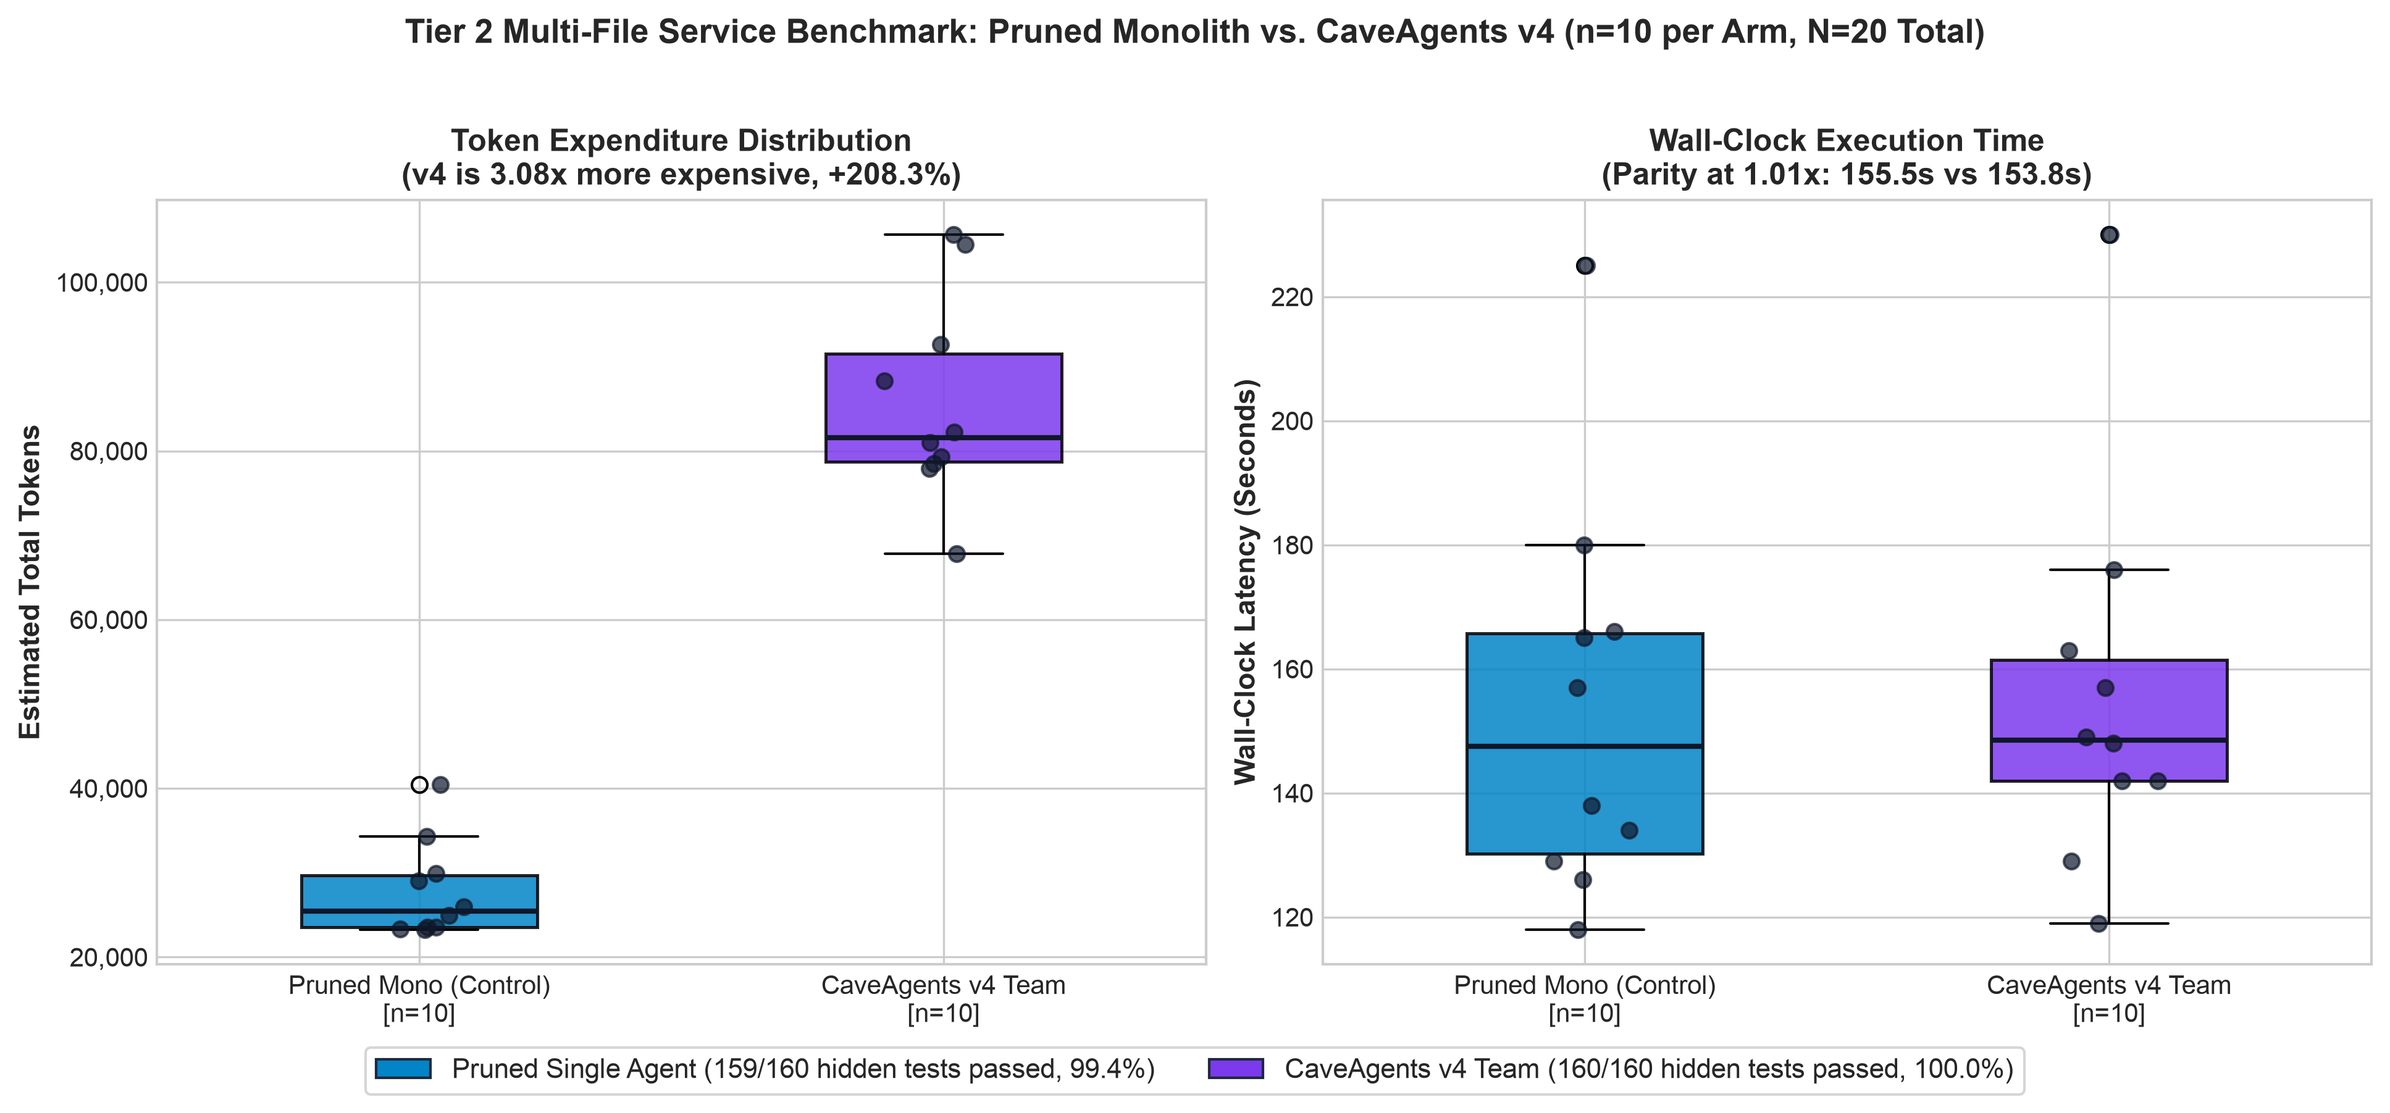
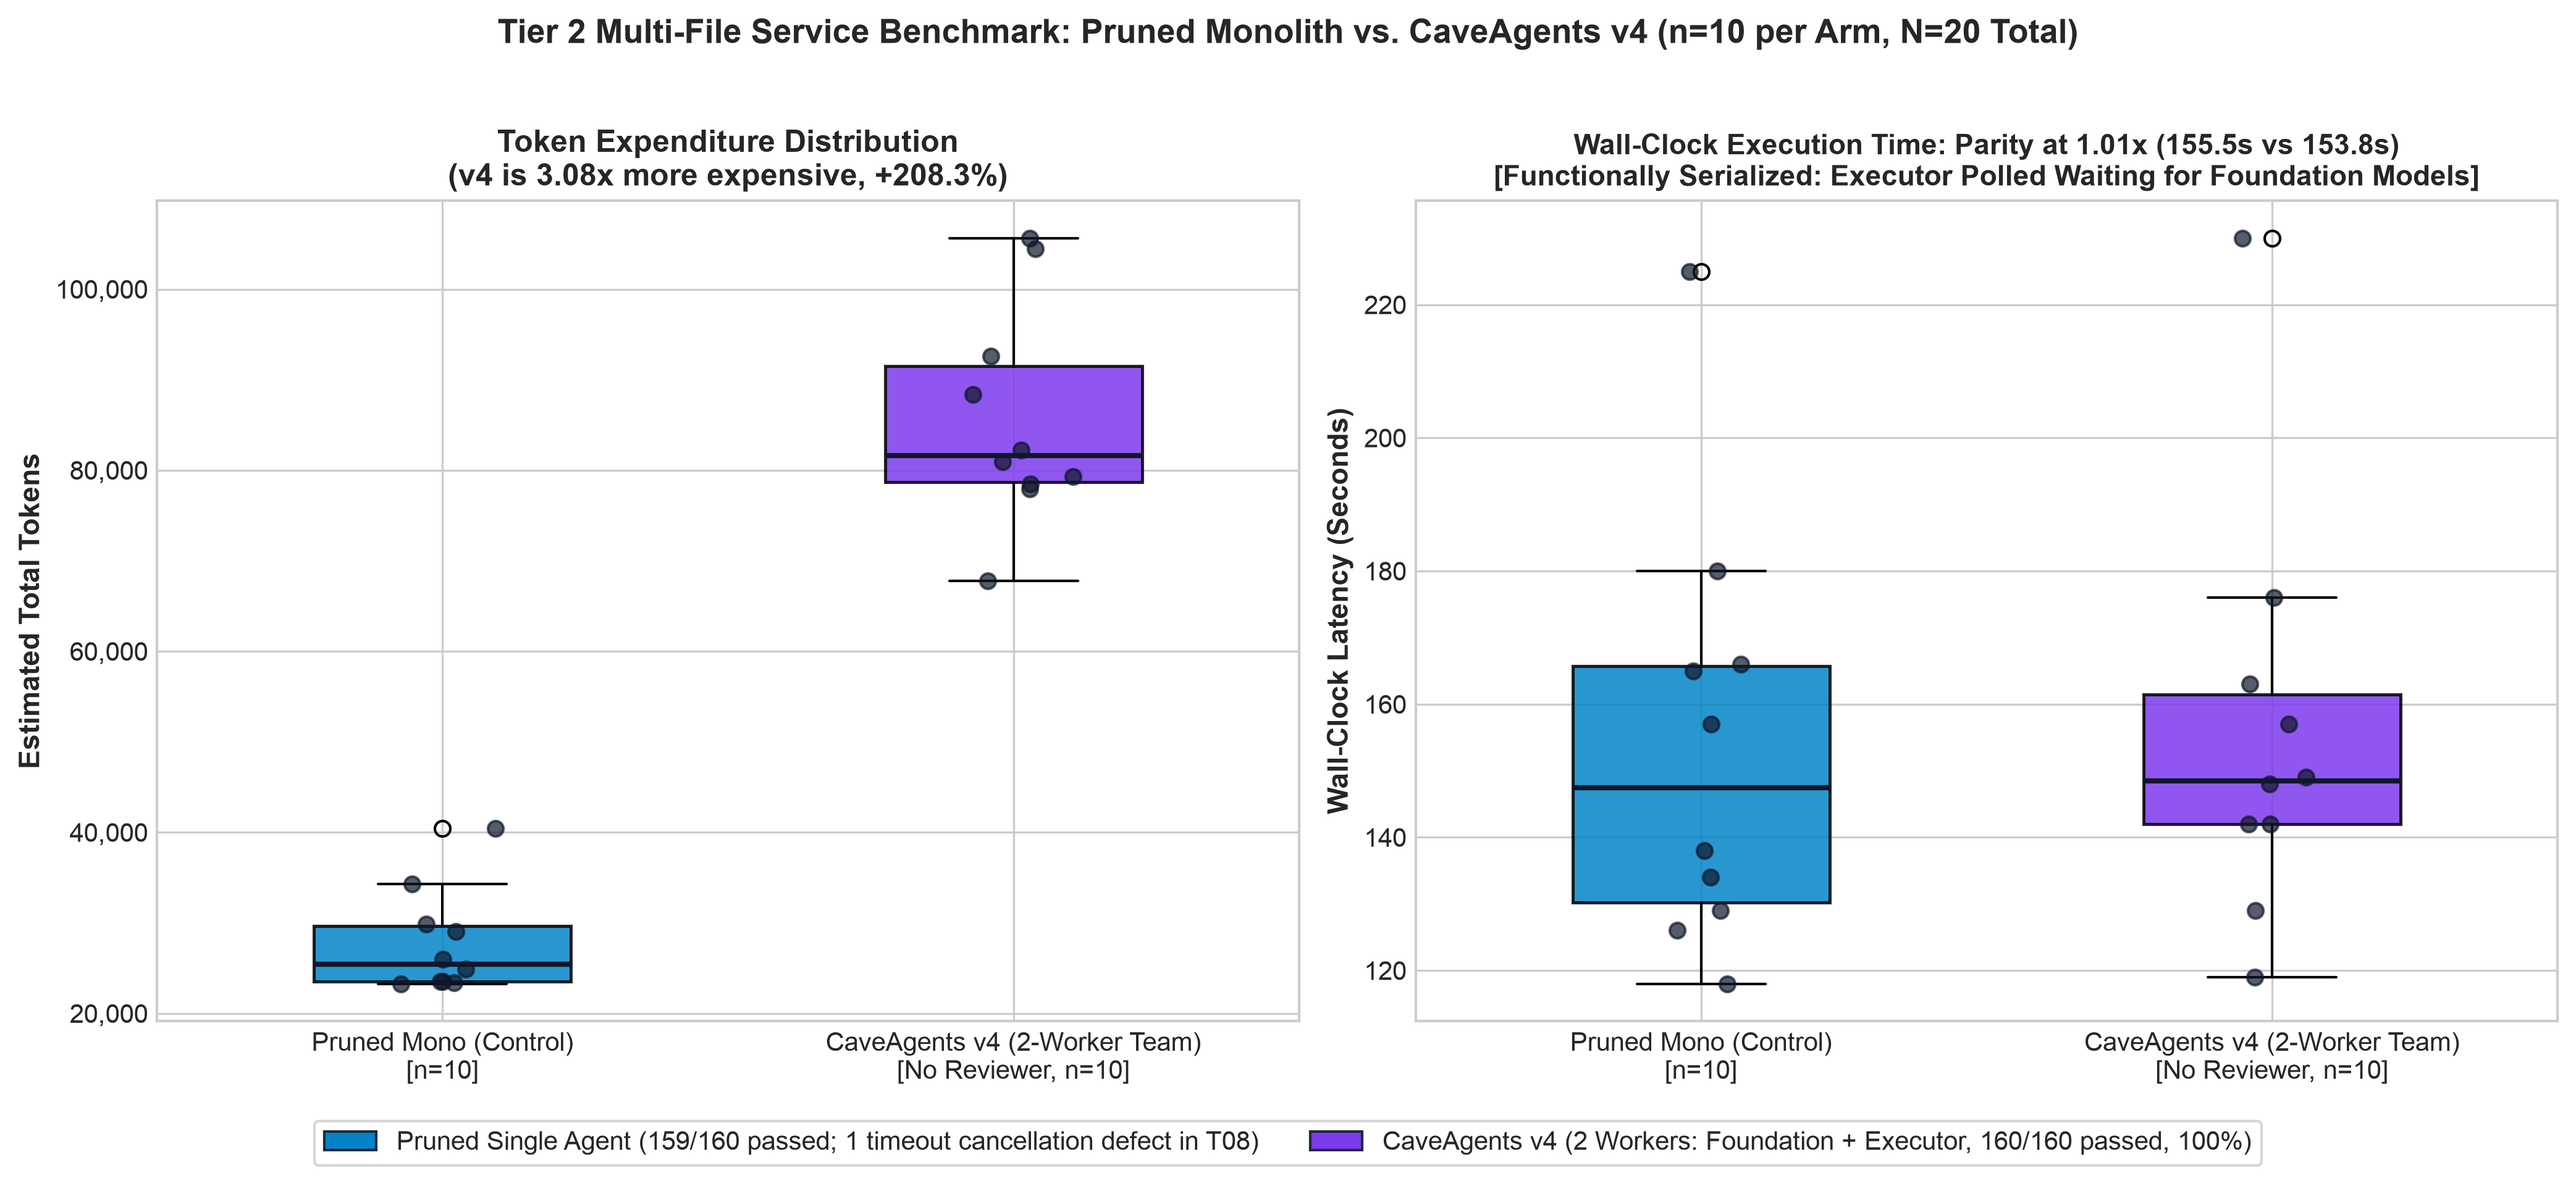
feat(viz): update benchmark charts with functional serialization and 2-worker topology annotations

diff --git a/benchmarks/tier2_service/generate_extended_charts.py b/benchmarks/tier2_service/generate_extended_charts.py
@@ -47,17 +47,14 @@ COLOR_MONO = "#0284c7"      # Blue for single agent
 COLOR_V4 = "#7c3aed"        # Purple for multi-agent team
 COLOR_FOUND = "#a855f7"     # Lighter purple for foundation
 COLOR_EXEC = "#6366f1"      # Indigo for executor
-COLOR_DIAG = "#38bdf8"      # Light blue for dialogue
-COLOR_SCHEMA = "#f59e0b"    # Amber for schema
 
 plt.style.use("seaborn-v0_8-whitegrid" if "seaborn-v0_8-whitegrid" in plt.style.available else "default")
 
 
 def make_scaling_chart():
     """Chart 1: Cross-Tier Scaling (Tier 1 vs Tier 2)."""
-    fig, ax = plt.subplots(figsize=(9, 5.5), dpi=300)
+    fig, ax = plt.subplots(figsize=(10, 5.8), dpi=300)
 
-    # Tier 1 & Tier 2 data
     tier1_mono = 11381
     tier1_v4 = 26784
     tier2_mono = np.mean(mono_tokens)
@@ -73,9 +70,9 @@ def make_scaling_chart():
     ax.set_title("Cross-Tier Coordination Tax: Single Agent vs. Multi-Agent Team", fontsize=13, fontweight="bold", pad=15)
     ax.set_xticks(x)
     ax.set_xticklabels([
-        "Tier 1: Single Algorithmic Component\n(TokenBucket, ~91 LOC, n=1)",
-        "Tier 2: Multi-File Asynchronous Service\n(taskflow, ~500 LOC, n=10 per arm)"
-    ], fontsize=10.5, fontweight="bold")
+        "Tier 1: Single Algorithmic Component (TokenBucket, ~91 LOC)\n[3-Agent Team: QA + Coder + Reviewer, n=1]",
+        "Tier 2: Multi-File Asynchronous Service (taskflow, ~500 LOC)\n[2-Agent Team: Foundation + Executor (No Reviewer), n=10]"
+    ], fontsize=9.5, fontweight="bold")
     ax.yaxis.set_major_formatter(matplotlib.ticker.FuncFormatter(lambda val, p: f"{int(val):,}"))
 
     # Add data labels
@@ -95,11 +92,11 @@ def make_scaling_chart():
                     ha="center", va="bottom", fontsize=9.5, fontweight="bold", color="#5b21b6")
 
     # Add insight callout
-    ax.text(0.5, 92000, "Coordination Tax widens from 2.35x to 3.08x (+73.0% gap)\nas codebase scales to multi-file service",
-            ha="center", va="center", fontsize=10, fontweight="bold",
-            bbox=dict(boxstyle="round,pad=0.5", facecolor="#fef3c7", edgecolor="#f59e0b", alpha=0.9))
+    ax.text(0.5, 96000, "Coordination Tax widens from 2.35x to 3.08x (+73.0% gap)\nEVEN AFTER OMITTING THE REVIEWER STAGE\n(Downstream Executor functionally blocked on upstream Foundation models)",
+            ha="center", va="center", fontsize=9.5, fontweight="bold",
+            bbox=dict(boxstyle="round,pad=0.5", facecolor="#fef3c7", edgecolor="#f59e0b", alpha=0.95))
 
-    ax.set_ylim(0, 115000)
+    ax.set_ylim(0, 118000)
     ax.legend(loc="upper left", frameon=True, fontsize=10.5)
     plt.tight_layout()
 
@@ -111,13 +108,13 @@ def make_scaling_chart():
 
 def make_breakdown_chart():
     """Chart 2: Decomposition of Expenditure in Tier 2."""
-    fig, ax = plt.subplots(figsize=(10, 5.5), dpi=300)
+    fig, ax = plt.subplots(figsize=(10.5, 5.8), dpi=300)
 
     categories = [
-        "Pruned Monolith\n(Full Service)",
+        "Pruned Monolith\n(Full Service Control)",
         "v4: Foundation Worker\n(Models, Storage, Queue)",
         "v4: Executor Worker\n(Executor, Service)",
-        "v4: Combined Team\n(Foundation + Executor)"
+        "v4: Combined 2-Worker Team\n(Foundation + Executor)"
     ]
 
     dialogues = [np.mean(mono_diag), np.mean(found_diag), np.mean(exec_diag), np.mean(v4_diag)]
@@ -130,9 +127,9 @@ def make_breakdown_chart():
     p2 = ax.bar(x, schemas, width, bottom=dialogues, label="Tool Schema Declaration Tokens", color="#f59e0b", edgecolor="#d97706", linewidth=1.2)
 
     ax.set_ylabel("Estimated Total Tokens", fontsize=11, fontweight="bold")
-    ax.set_title("Tier 2 Token Expenditure Decomposition: Dialogue vs. Schema Costs", fontsize=13, fontweight="bold", pad=15)
+    ax.set_title("Tier 2 Token Expenditure Decomposition: Dialogue vs. Schema Costs\n(Evaluated on 2-Worker Division of Labor, Reviewer Omitted)", fontsize=12.5, fontweight="bold", pad=15)
     ax.set_xticks(x)
-    ax.set_xticklabels(categories, fontsize=10, fontweight="bold")
+    ax.set_xticklabels(categories, fontsize=9.5, fontweight="bold")
     ax.yaxis.set_major_formatter(matplotlib.ticker.FuncFormatter(lambda val, p: f"{int(val):,}"))
 
     # Value labels
@@ -155,12 +152,12 @@ def make_breakdown_chart():
 
 def make_pareto_chart():
     """Chart 3: Latency vs Token Expenditure (Cost-Time Efficiency Pareto)."""
-    fig, ax = plt.subplots(figsize=(9, 5.5), dpi=300)
+    fig, ax = plt.subplots(figsize=(10, 5.8), dpi=300)
 
     # Plot Monolith trials
     ax.scatter(mono_lat, mono_tokens, color=COLOR_MONO, s=90, alpha=0.85, edgecolors="#0f172a", linewidth=1.2, label="Pruned Monolith Trials (n=10)", zorder=3)
     # Plot Team trials
-    ax.scatter(v4_lat, v4_tokens, color=COLOR_V4, s=100, marker="D", alpha=0.85, edgecolors="#0f172a", linewidth=1.2, label="CaveAgents v4 Trials (n=10)", zorder=3)
+    ax.scatter(v4_lat, v4_tokens, color=COLOR_V4, s=100, marker="D", alpha=0.85, edgecolors="#0f172a", linewidth=1.2, label="CaveAgents v4 Team (2 Workers, n=10)", zorder=3)
 
     # Centroid markers
     mean_mono_lat = np.mean(mono_lat)
@@ -181,8 +178,8 @@ def make_pareto_chart():
     ax.yaxis.set_major_formatter(matplotlib.ticker.FuncFormatter(lambda val, p: f"{int(val):,}"))
 
     # Annotation
-    ax.text(175, 45000, "Identical Latency Band (~120s–230s)\n3.08x Token Separation",
-            fontsize=10, fontweight="bold", color="#1e293b",
+    ax.text(175, 45000, "Functionally Serialized via Data-Flow Dependency\nIdentical Latency Band (~120s–230s) | 3.08x Token Separation",
+            fontsize=9.5, fontweight="bold", color="#1e293b",
             bbox=dict(boxstyle="round,pad=0.5", facecolor="#e0f2fe", edgecolor="#0284c7", alpha=0.9))
 
     ax.legend(loc="upper left", frameon=True, fontsize=9.5)

diff --git a/benchmarks/tier2_service/generate_tier2_chart.py b/benchmarks/tier2_service/generate_tier2_chart.py
@@ -30,7 +30,7 @@ mono_hid = [r["test_results"]["hidden"]["passed"] for r in mono_records]
 v4_hid = [r["test_results"]["hidden"]["passed"] for r in v4_records]
 
 plt.style.use("seaborn-v0_8-whitegrid" if "seaborn-v0_8-whitegrid" in plt.style.available else "default")
-fig, (ax1, ax2) = plt.subplots(1, 2, figsize=(13, 5.5), dpi=300)
+fig, (ax1, ax2) = plt.subplots(1, 2, figsize=(14, 5.8), dpi=300)
 
 COLOR_MONO = "#0284c7"  # Blue for single agent
 COLOR_V4 = "#7c3aed"    # Purple for multi-agent team
@@ -38,7 +38,7 @@ COLOR_V4 = "#7c3aed"    # Purple for multi-agent team
 # Subplot 1: Token Expenditure Distribution
 bp1 = ax1.boxplot(
     [mono_tokens, v4_tokens],
-    tick_labels=["Pruned Mono (Control)\n[n=10]", "CaveAgents v4 Team\n[n=10]"],
+    tick_labels=["Pruned Mono (Control)\n[n=10]", "CaveAgents v4 (2-Worker Team)\n[No Reviewer, n=10]"],
     patch_artist=True,
     widths=0.45,
     boxprops=dict(linewidth=1.2),
@@ -65,7 +65,7 @@ ax1.yaxis.set_major_formatter(matplotlib.ticker.FuncFormatter(lambda x, p: f"{in
 # Subplot 2: Wall-Clock Latency Distribution
 bp2 = ax2.boxplot(
     [mono_lat, v4_lat],
-    tick_labels=["Pruned Mono (Control)\n[n=10]", "CaveAgents v4 Team\n[n=10]"],
+    tick_labels=["Pruned Mono (Control)\n[n=10]", "CaveAgents v4 (2-Worker Team)\n[No Reviewer, n=10]"],
     patch_artist=True,
     widths=0.45,
     boxprops=dict(linewidth=1.2),
@@ -85,11 +85,11 @@ v4_lat_mean = np.mean(v4_lat)
 lat_ratio = v4_lat_mean / mono_lat_mean
 
 ax2.set_ylabel("Wall-Clock Latency (Seconds)", fontsize=11, fontweight="bold")
-ax2.set_title(f"Wall-Clock Execution Time\n(Parity at {lat_ratio:.2f}x: {v4_lat_mean:.1f}s vs {mono_lat_mean:.1f}s)", fontsize=12, fontweight="bold")
+ax2.set_title(f"Wall-Clock Execution Time: Parity at {lat_ratio:.2f}x ({v4_lat_mean:.1f}s vs {mono_lat_mean:.1f}s)\n[Functionally Serialized: Executor Polled Waiting for Foundation Models]", fontsize=11, fontweight="bold")
 
-patch_mono = mpatches.Patch(facecolor=COLOR_MONO, edgecolor="#1e293b", label="Pruned Single Agent (159/160 hidden tests passed, 99.4%)")
-patch_v4 = mpatches.Patch(facecolor=COLOR_V4, edgecolor="#1e293b", label="CaveAgents v4 Team (160/160 hidden tests passed, 100.0%)")
-fig.legend(handles=[patch_mono, patch_v4], loc="lower center", ncol=2, frameon=True, fontsize=10.5, bbox_to_anchor=(0.5, -0.05))
+patch_mono = mpatches.Patch(facecolor=COLOR_MONO, edgecolor="#1e293b", label="Pruned Single Agent (159/160 passed; 1 timeout cancellation defect in T08)")
+patch_v4 = mpatches.Patch(facecolor=COLOR_V4, edgecolor="#1e293b", label="CaveAgents v4 (2 Workers: Foundation + Executor, 160/160 passed, 100%)")
+fig.legend(handles=[patch_mono, patch_v4], loc="lower center", ncol=2, frameon=True, fontsize=10, bbox_to_anchor=(0.5, -0.06))
 
 plt.suptitle("Tier 2 Multi-File Service Benchmark: Pruned Monolith vs. CaveAgents v4 (n=10 per Arm, N=20 Total)", fontsize=13, fontweight="bold", y=1.02)
 plt.tight_layout()
